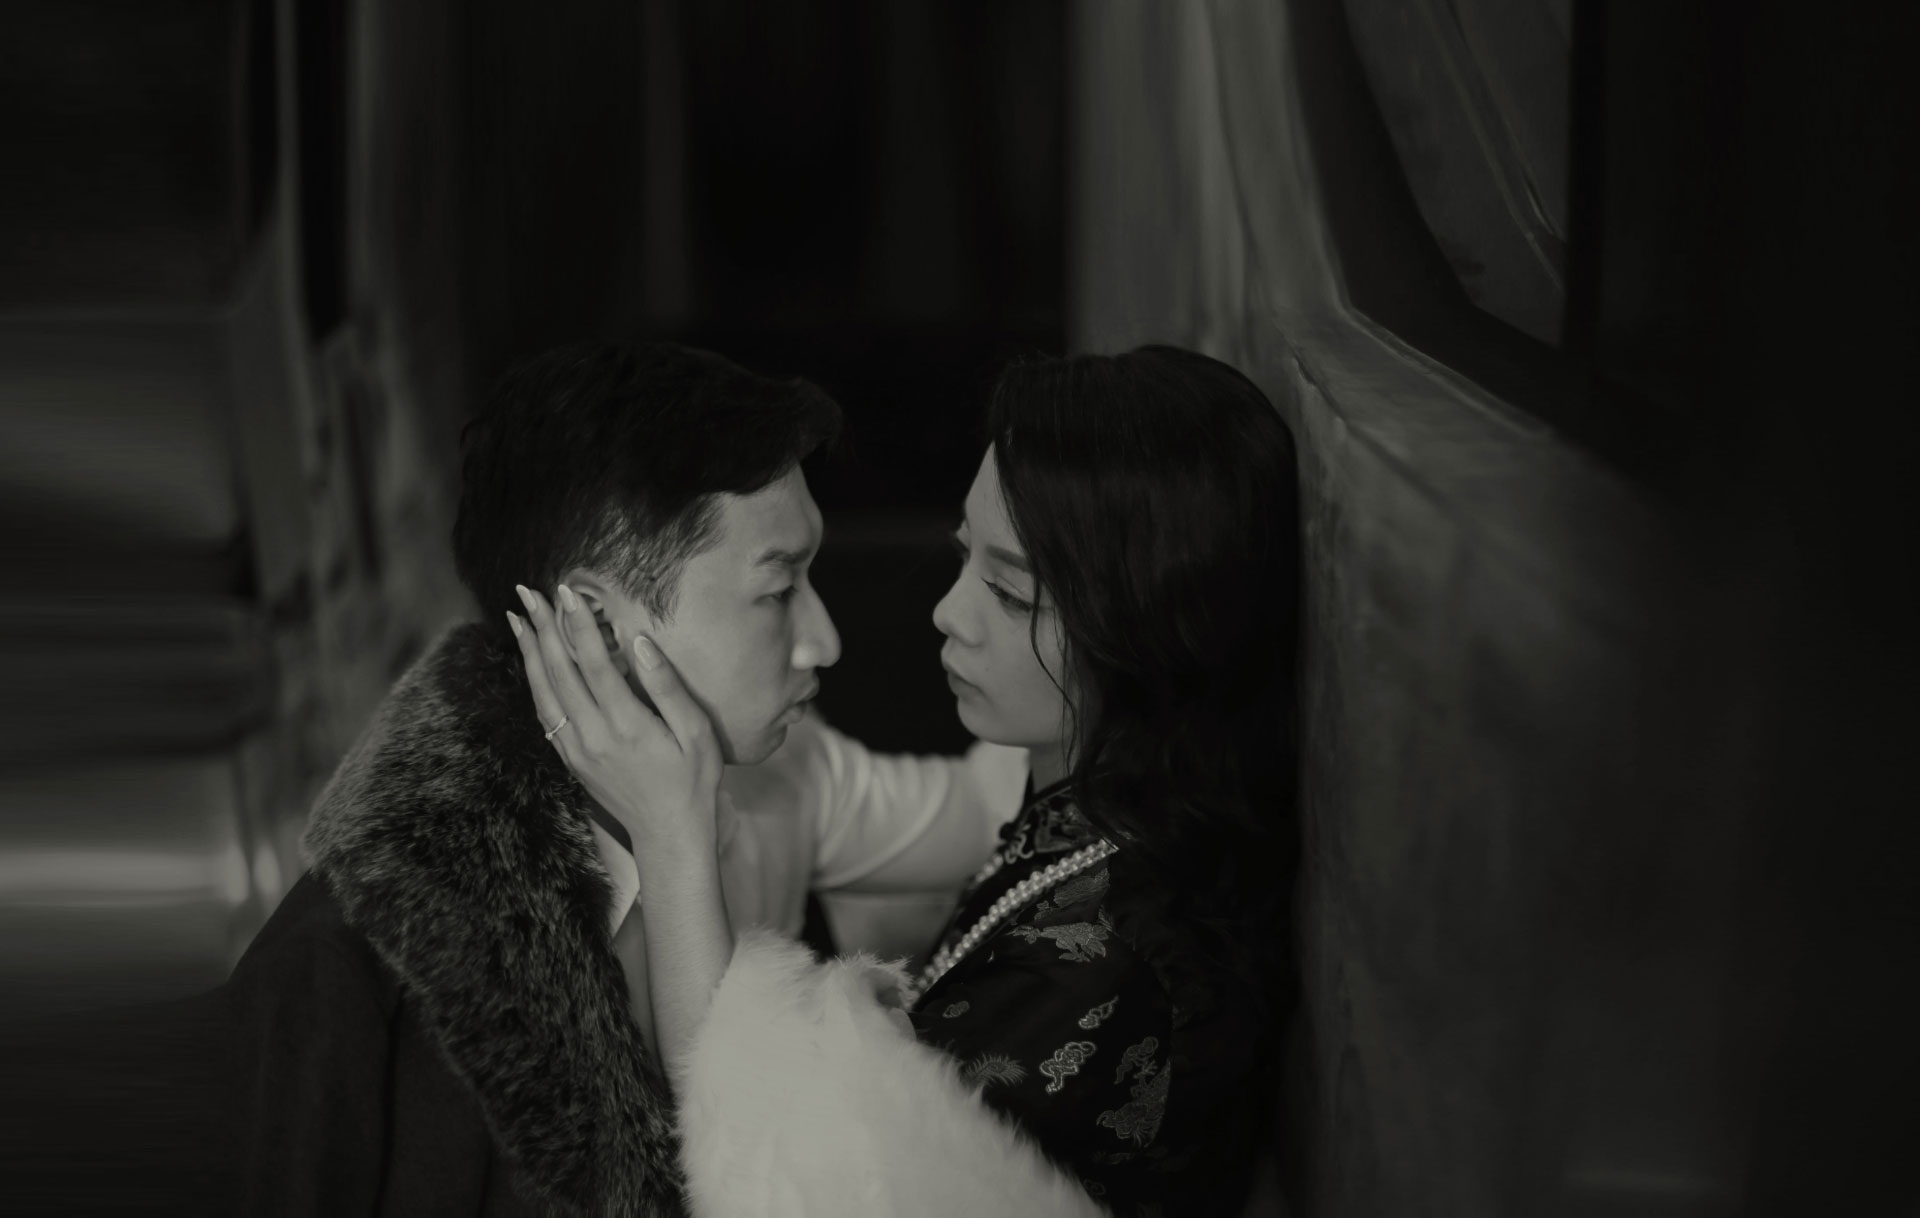
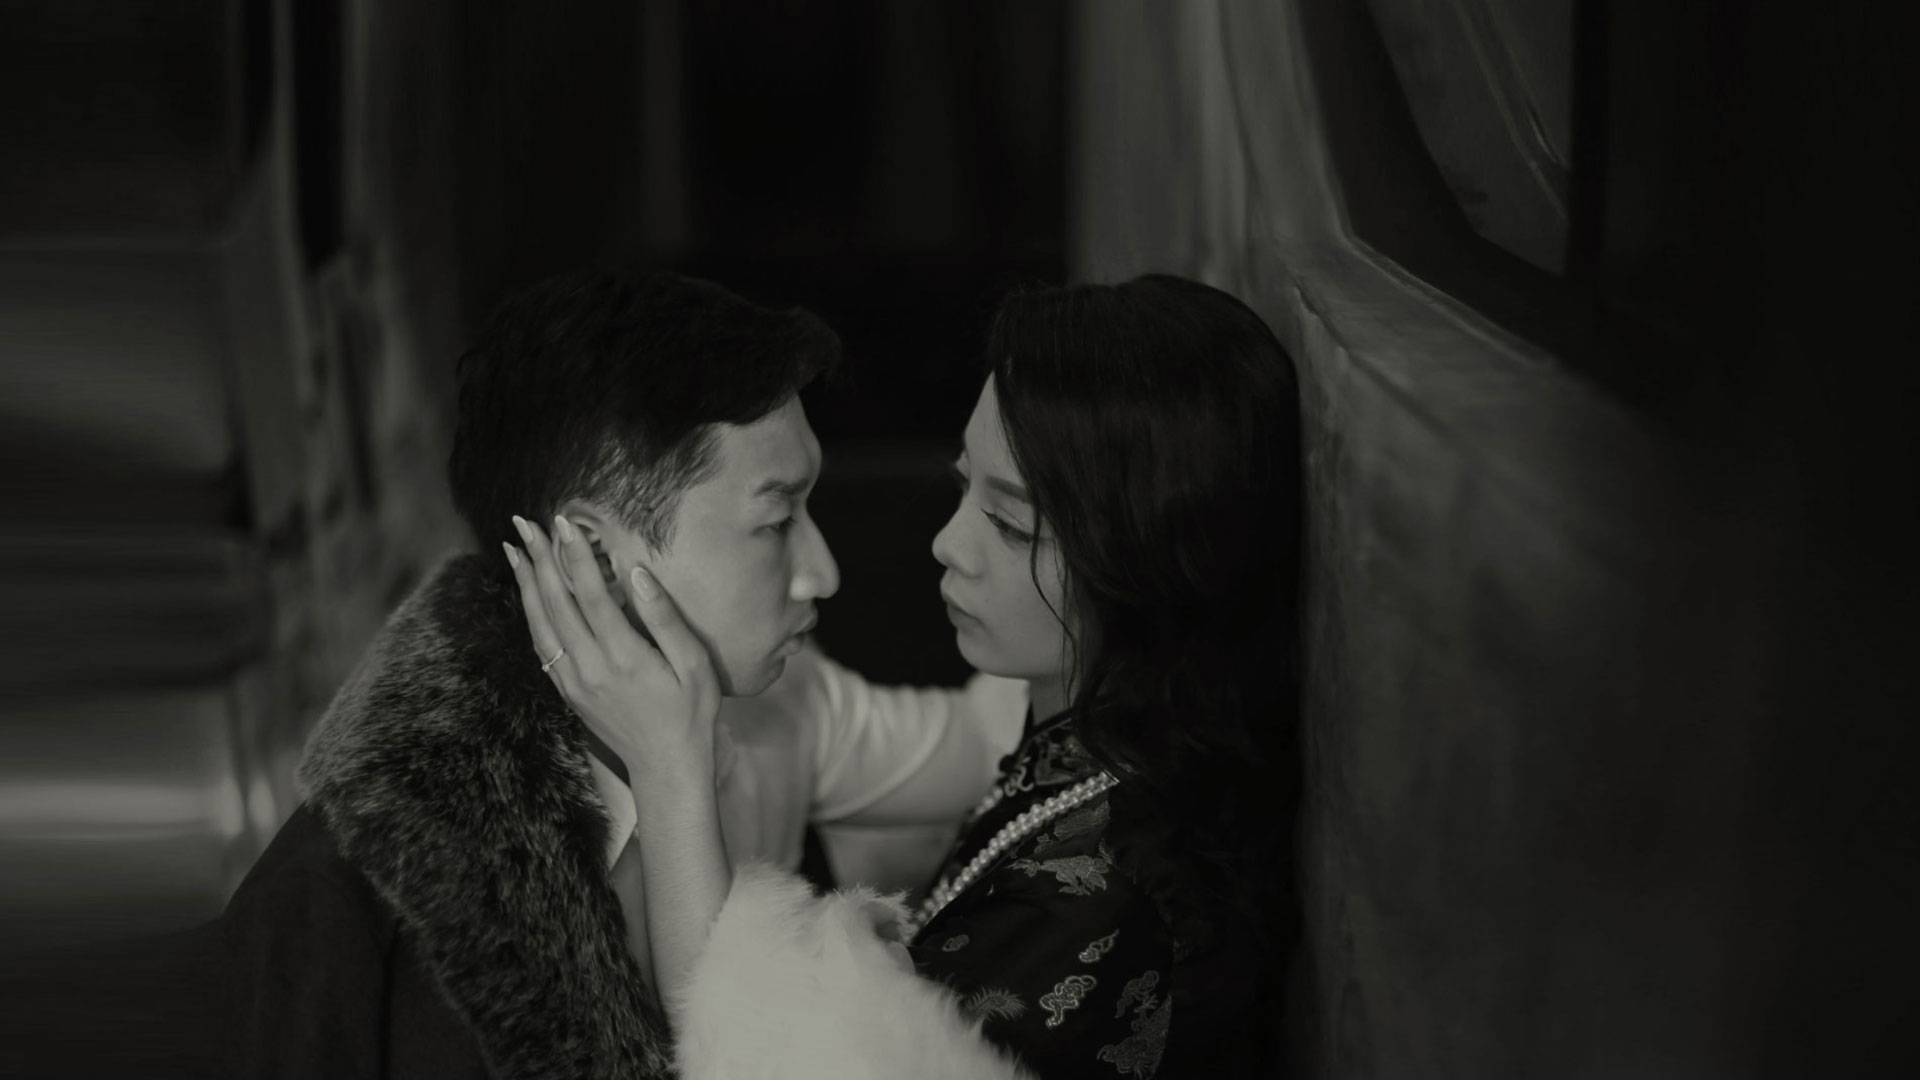
update 3

diff --git a/assets/css/merito-style.css b/assets/css/merito-style.css
@@ -1744,9 +1744,6 @@ padding-bottom: 30px;
     font-size: 16px;
   }
 
-.start-page .logogram {
-  padding: 0px 20px;
-}
 
 .image-container {
   height: 100%; /* Ganti dengan tinggi yang diinginkan */
@@ -1985,46 +1982,64 @@ input:-internal-autofill-selected {
   font-size: 14px;
 }
 
-.start-center {
+/* .start-center {
   display: flex;
   align-items: center;
   justify-content: center;
+} */
+
+.start-wraper-2 {
+    background-image: url("../img/bg-paralax.png");
+    height: 100%;
+    width: 100%;
+    order: 2;
+    position: fixed;
+    left: 0;
+    right: 0;
+    top: 0;
+    z-index: 11111100;
+    -webkit-transition: all 0.5s ease-in-out;
+    -moz-transition: all 0.5s ease-in-out;
+    -o-transition: all 0.5s ease-in-out;
+    transition: all 0.5s ease-in-out;
+    overflow: auto;
 }
 
 .start-wraper {
-  /* background-image: url("../img/cover-bg.jpg"); */
-  background-position: 45%;
-  height: 100%;
-  width: 100%;
+  background-image: url("../img/cover-bg.jpg");
+  /* background-position: 45%; */
+  height: 100vh;
+  /* width: 100%; */
   order: 2;
   position: fixed;
   left: 0;
   right: 0;
   top: 0;
   z-index: 11111100;
-  /* -webkit-transition: all 0.5s ease-in-out;
+  -webkit-transition: all 0.5s ease-in-out;
   -moz-transition: all 0.5s ease-in-out;
   -o-transition: all 0.5s ease-in-out;
-  transition: all 0.5s ease-in-out; */
+  transition: all 0.5s ease-in-out;
   overflow: auto;
 }
 
 
-/* .start-page {
-  height: 100%;
-} */
+.containeritems-center {
+text-align: center;
+}
 
 
-.start-page .start-btn
+
+/* .start-page .start-btn
 {
     z-index: 2;
     padding: 0;
     color: #fff;
-    /* position: absolute; */
+    position: absolute;
     width: 100%;
     text-align: center;
    
-}
+} */
 
 .start-page .start-btn a
 {
@@ -2035,10 +2050,10 @@ input:-internal-autofill-selected {
 
 .start-page .logogram
 {
-   text-align: center;
-    z-index: 2;
-    width: 100%;
-
+  padding-top: 50px;
+  text-align: center;
+  z-index: 2;
+  width: 100%;
 }
 
 .logogram img {

diff --git a/index.html b/index.html
@@ -446,14 +446,12 @@
             <!-- Merito - Audio ends -->
 
          <!--Merito Start-->
-          <div id="click" class="start-wraper bg-slide-1 start-center">
-              <div class="start-page containeritems-center">
-                  <div class="top-logo text-center" data-aos="fade-down">
+          <div id="click" class="start-wraper align-items-center">
+              <div class="start-page">
+                  <div class="top-logo">
                     <img src="assets/img/logo-ae.png">
                   </div>
-                  <div class="logogram log-name" data-aos="fade-up">
-                      <img class="img-100" src="assets/img/logo-name.png">
-                  </div>
+                 
                   <div class="start-btn">
                       <a class="btn-ov" id="open-invitation">OPEN INVITATION</a>
                   </div>
